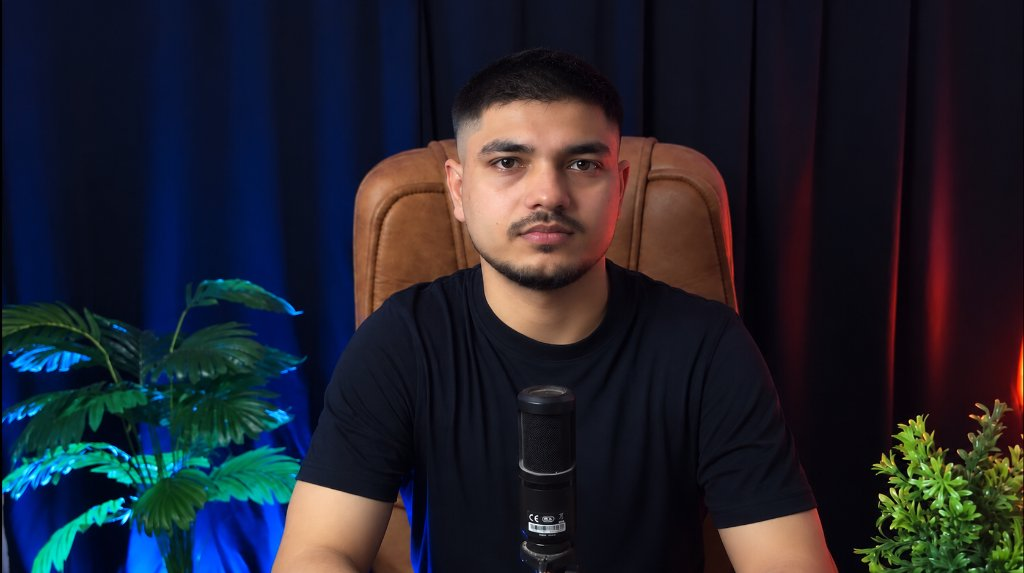
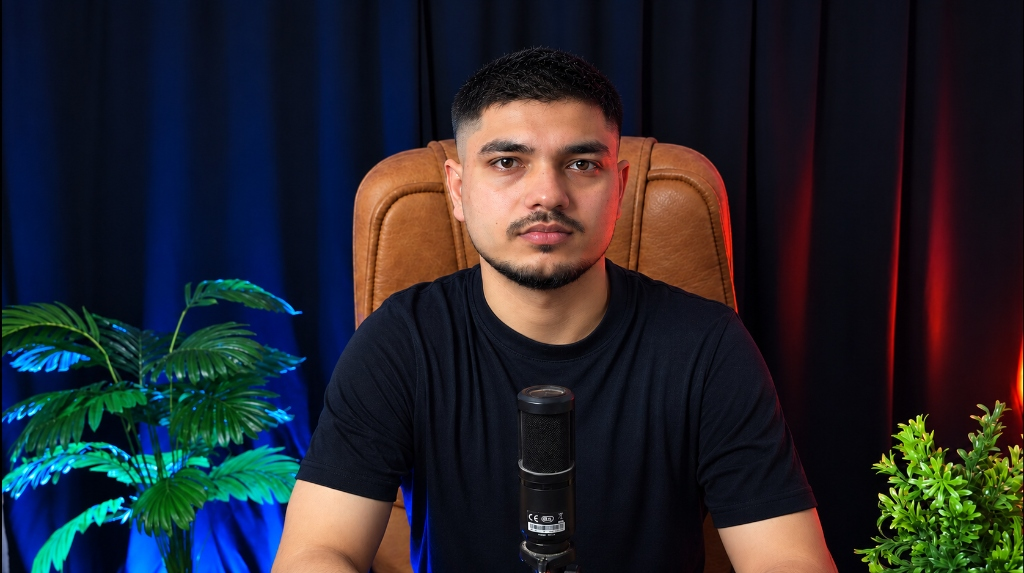
feat(hero): replace founder image with high-res clean studio photo

diff --git a/src/components/hero/hero-section.tsx b/src/components/hero/hero-section.tsx
@@ -59,12 +59,12 @@ export function HeroSection() {
               fill
               priority
               sizes="(max-width: 768px) 100vw, 560px"
-              className="object-cover object-top sm:object-center group-hover:scale-[1.03] transition-transform duration-700 brightness-[0.95] contrast-[1.04]"
+              className="object-cover object-top sm:object-center group-hover:scale-[1.03] transition-transform duration-700"
             />
 
-            {/* Subtle Edge Blending Vignette */}
+            {/* Subtle Bottom Edge Blending Vignette */}
             <div
-              className="absolute inset-0 bg-gradient-to-t from-black/25 via-transparent to-transparent pointer-events-none"
+              className="absolute inset-x-0 bottom-0 h-12 bg-gradient-to-t from-black/30 to-transparent pointer-events-none"
               aria-hidden="true"
             />
           </div>
